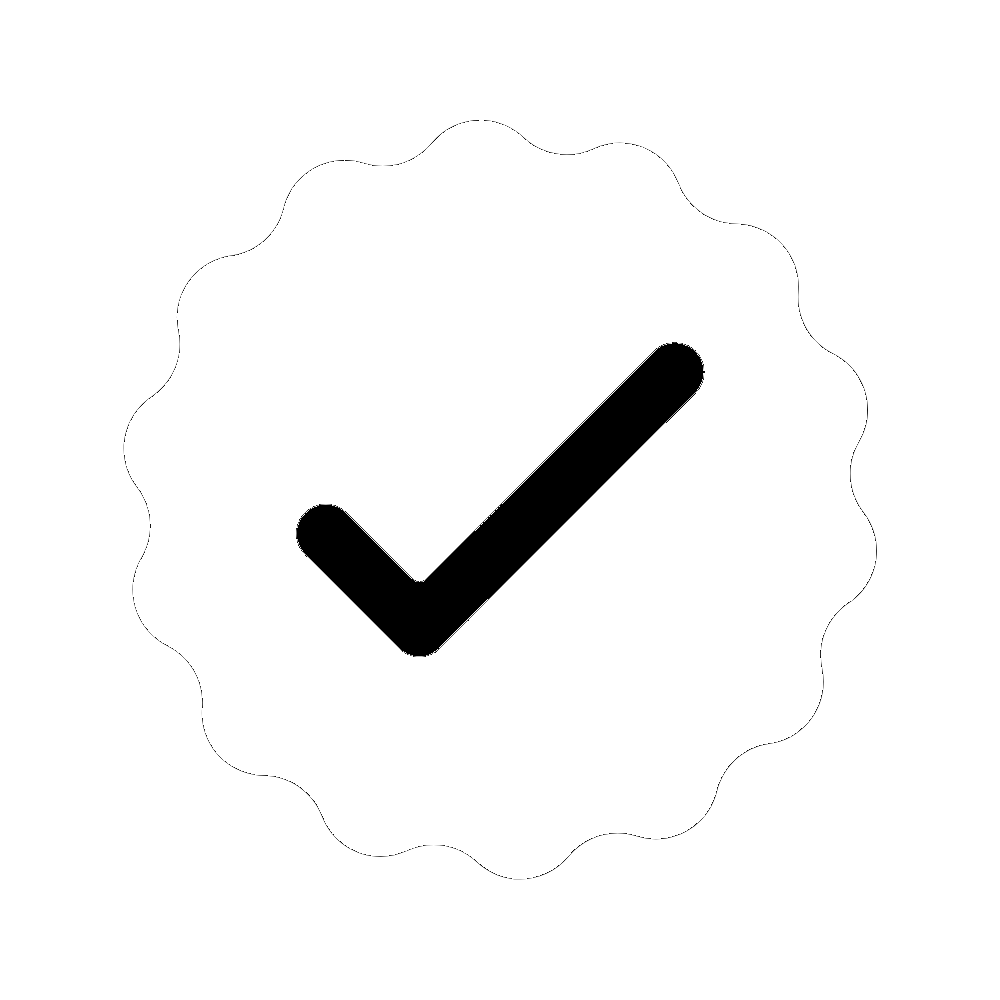
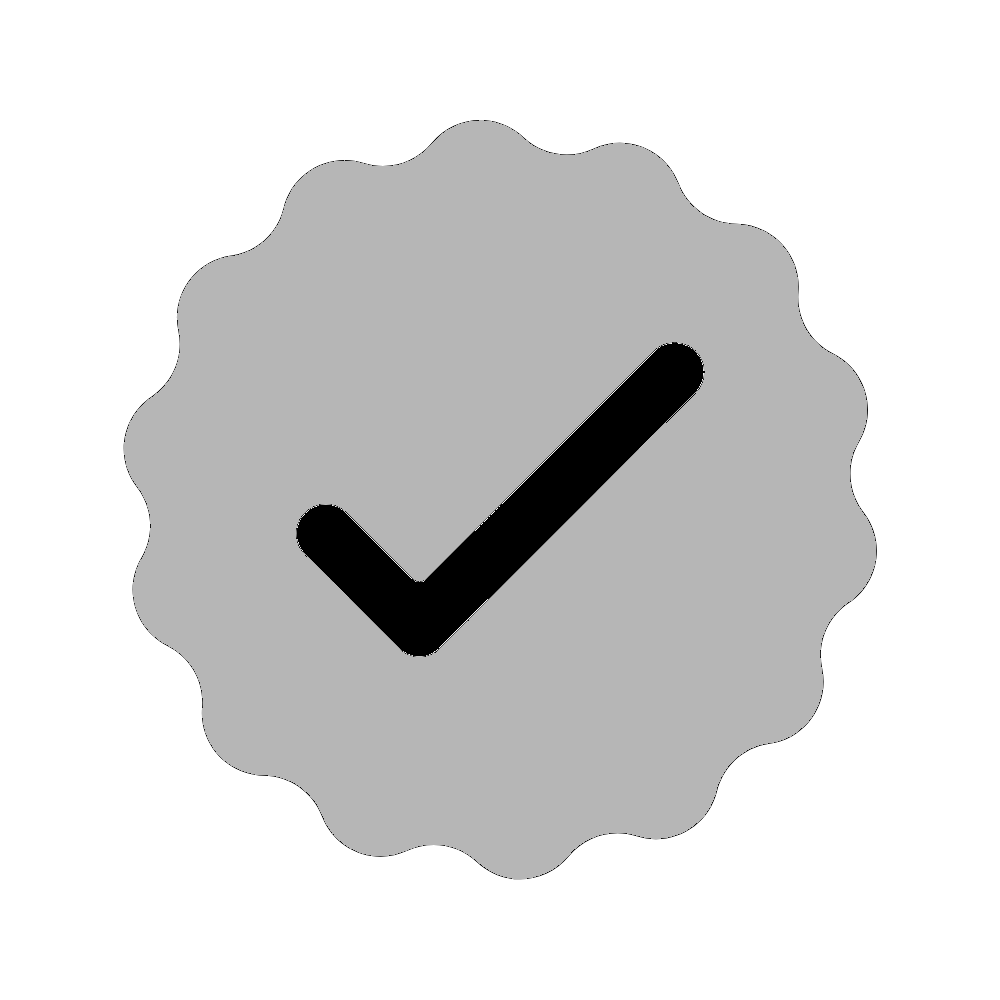
Update on bottom-padding

diff --git a/portfolioCode/style.css b/portfolioCode/style.css
@@ -395,6 +395,8 @@ section {
     display: flex;
     justify-content: center;
     flex-direction: column;
+    margin-bottom: 4rem;
+
 }
 
 .article-container {
@@ -408,6 +410,7 @@ section {
 }
 
 article {
+    color: rgb(182, 182, 182);
     display: flex;
     width: 12.5rem;
     justify-content: space-around;
